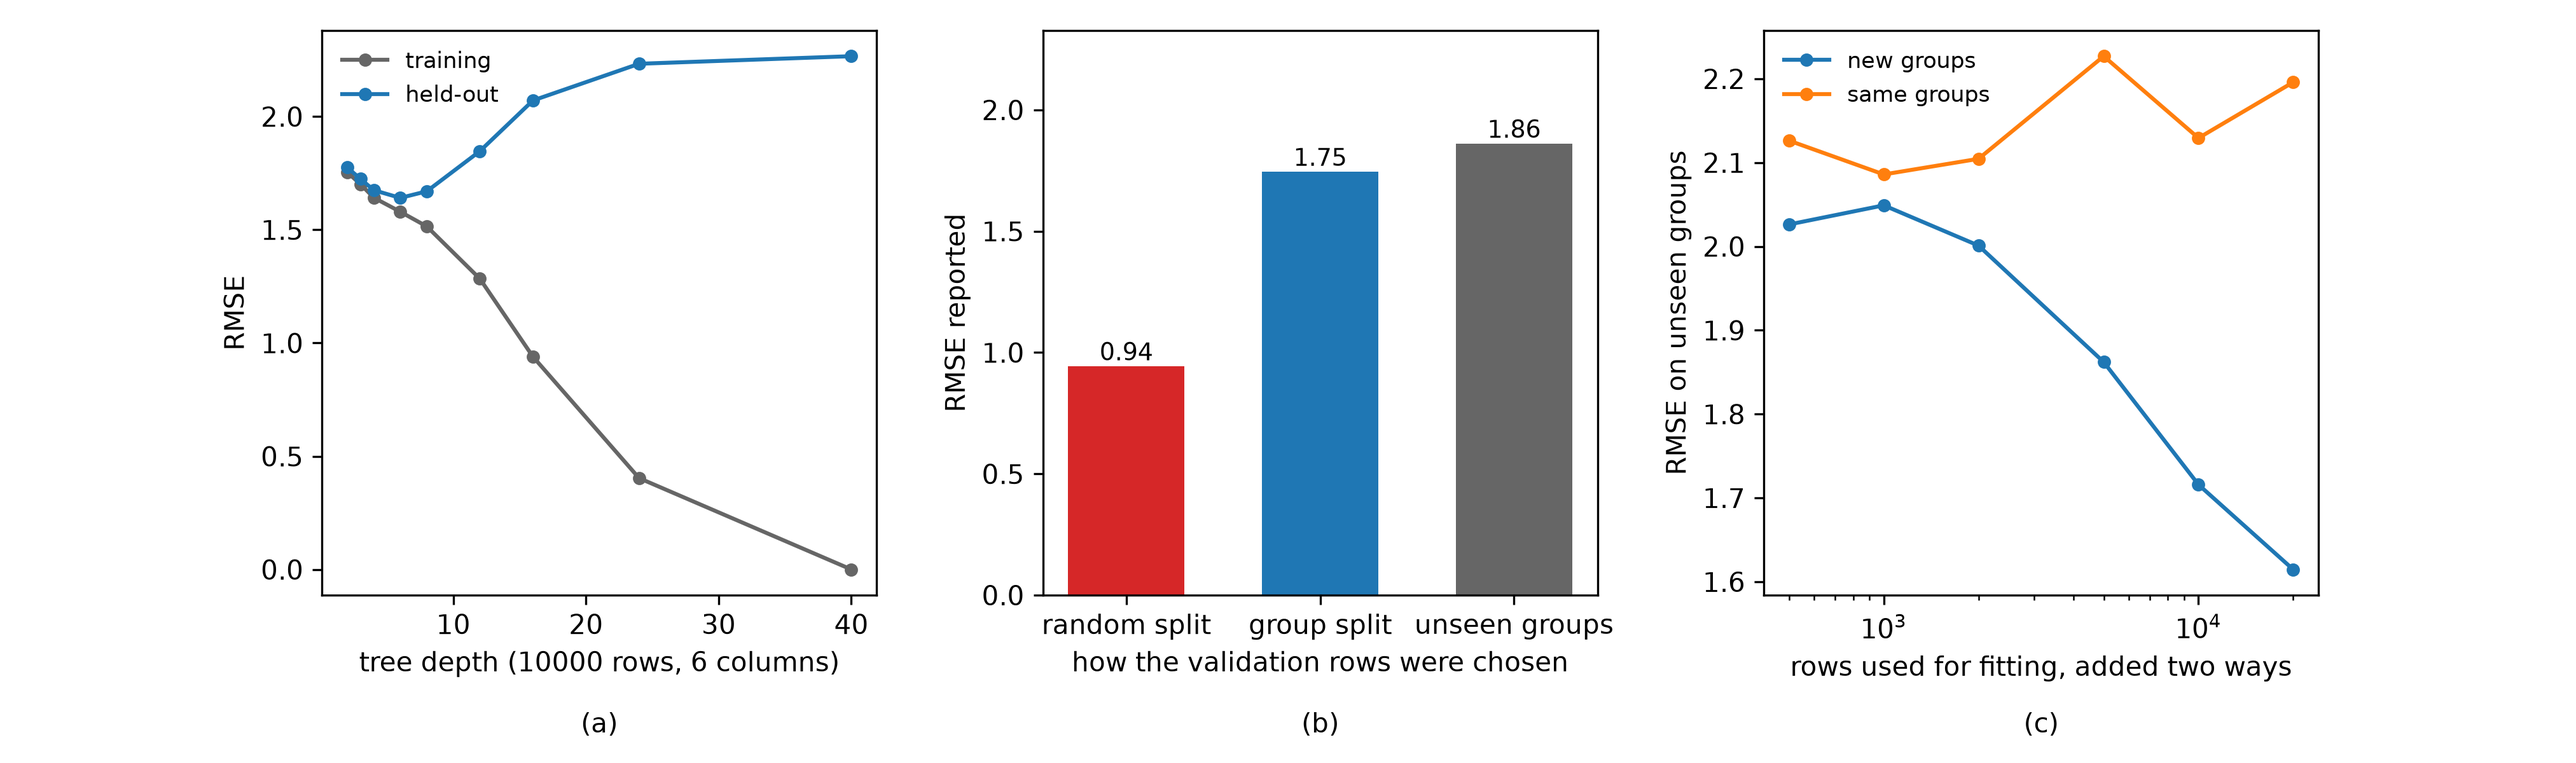
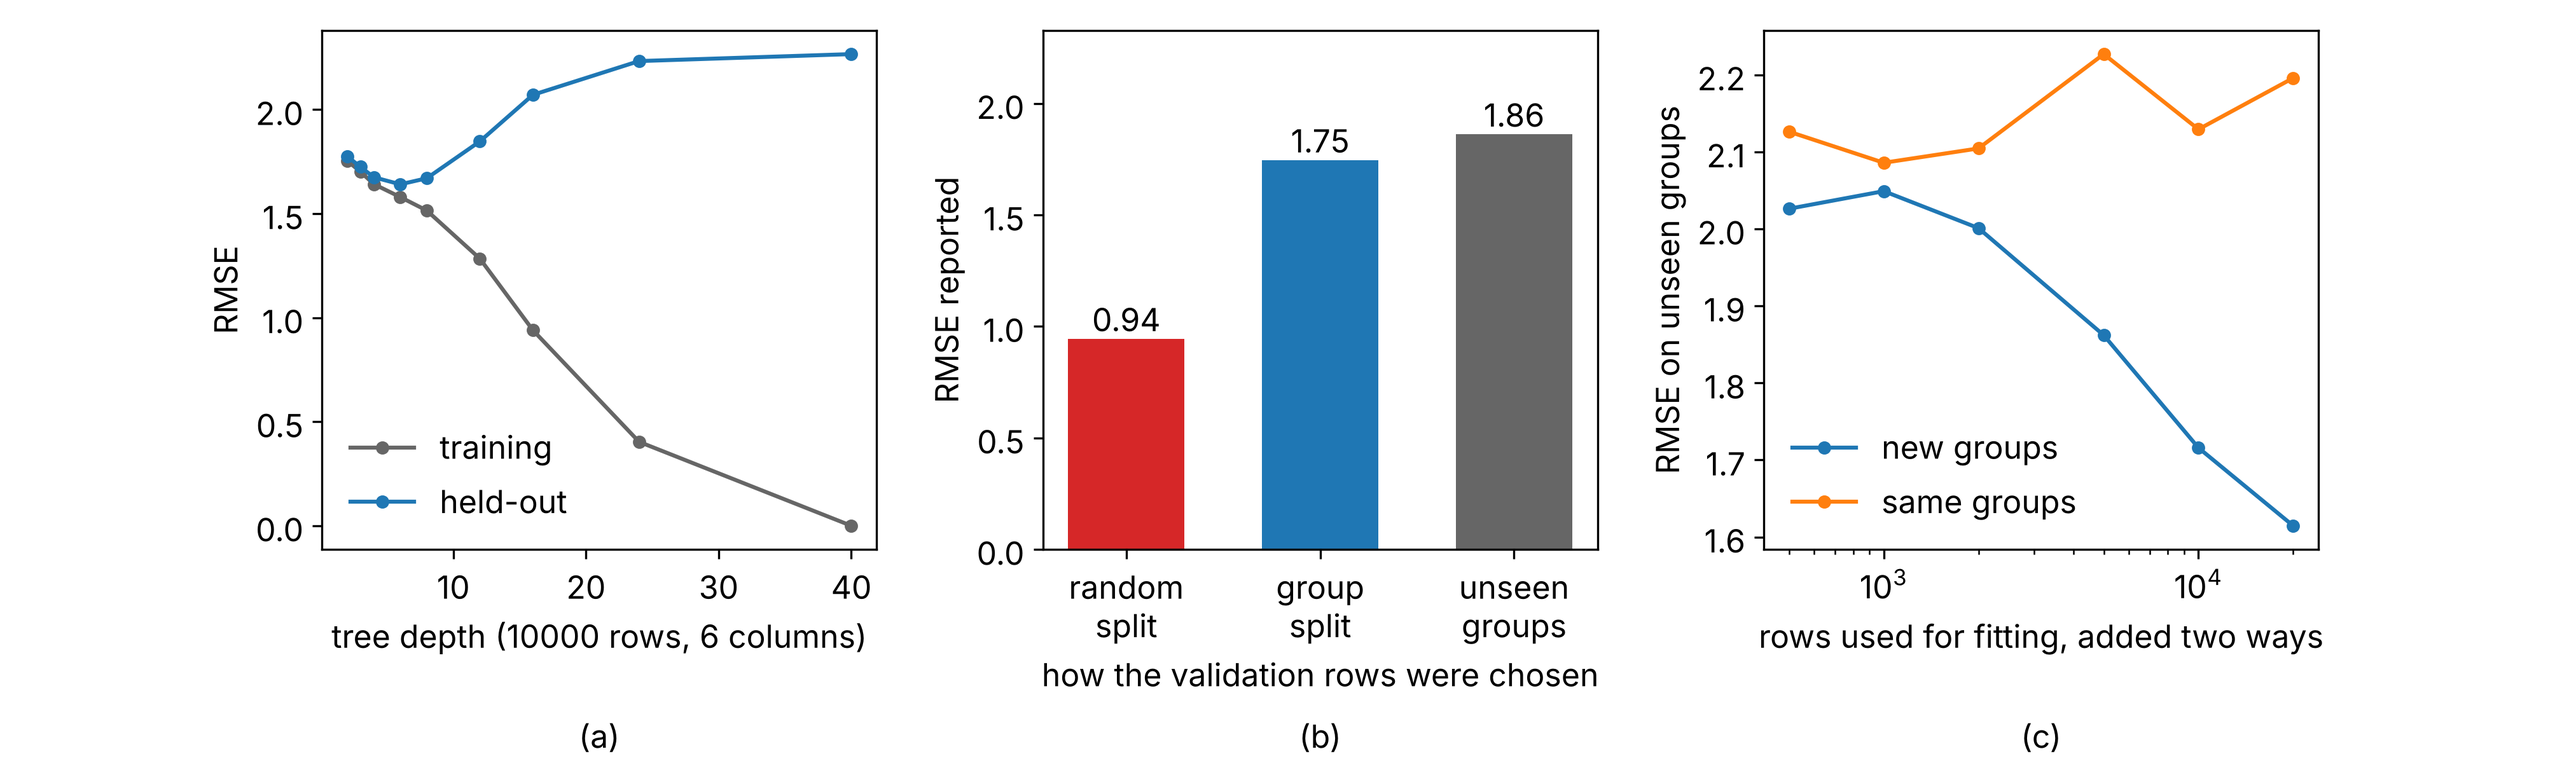
Set the smallest chart font to 12 pt in every overfitting figure
Raise the base font of the training-curve, wide-data and long-data figures to
12 pt and drop the factors that shrank legends and bar annotations below it.
Make room for the larger text: a shared legend above panels (b) and (c) of the
wide-data figure, two-line bar labels and a deeper bottom margin in the
long-data figure, and wider margins in the training-curve figure. The
simulated values are unchanged.

Claude-Session: https://claude.ai/code/session_018jMZFmUUa89N8dZAPYvKA5

diff --git a/Models/Overfitting/long_data_overfitting_fig.py b/Models/Overfitting/long_data_overfitting_fig.py
@@ -6,7 +6,7 @@ whose rows come in groups. Panel (c) adds rows two ways, from new groups and ins
 already present, and follows the error on unseen groups.
 """
 __author__ = 'yRocket'
-__version__ = "0.0.2.2026.9.7"  # Semantic Versioning: Major.Minor.Patch.Date(YYYY.M.D)
+__version__ = "0.0.3+20261101"  # Semantic Versioning: Major.Minor.Patch+YYYYMMDD
 
 import argparse
 import pathlib
@@ -26,7 +26,7 @@ __all__ = ['grouped_draw', 'capacity_curve', 'split_comparison', 'row_curve',
 
 FIGSIZE: tuple = (13.5, 4.0)
 REFERENCE_WIDTH: float = 13.5        # the width BASE_FONT_SIZE was chosen for
-BASE_FONT_SIZE: float = 10.0
+BASE_FONT_SIZE: float = 12.0
 COLORS: list = list(matplotlib.colors.TABLEAU_COLORS.values())
 FULL_DEPTH: int = 40                 # the x position standing for an unlimited tree
 
@@ -129,13 +129,14 @@ def draw_long_data_overfitting(capacity: pd.DataFrame, splits: pd.Series, rows: 
                      label=name)
     axes[0].set_xlabel('tree depth (10000 rows, 6 columns)')
     axes[0].set_ylabel('RMSE')
-    axes[0].legend(frameon=False, fontsize=font_size * 0.85)
+    axes[0].legend(frameon=False, fontsize=font_size)
 
-    axes[1].bar(splits.index, splits.to_numpy(), width=0.6,
+    # Two-line tick labels keep the three names apart at the larger font size.
+    axes[1].bar([name.replace(' ', '\n') for name in splits.index], splits.to_numpy(), width=0.6,
                 color=[COLORS[3], COLORS[0], '0.4'])
     for index, value in enumerate(splits.to_numpy()):
         axes[1].text(index, value, f"{value:.2f}", ha='center', va='bottom',
-                     fontsize=font_size * 0.9)
+                     fontsize=font_size)
     axes[1].set_ylabel('RMSE reported')
     axes[1].set_xlabel('how the validation rows were chosen')
     axes[1].set_ylim(0, splits.max() * 1.25)
@@ -145,12 +146,12 @@ def draw_long_data_overfitting(capacity: pd.DataFrame, splits: pd.Series, rows: 
     axes[2].set_xscale('log')
     axes[2].set_xlabel('rows used for fitting, added two ways')
     axes[2].set_ylabel('RMSE on unseen groups')
-    axes[2].legend(frameon=False, fontsize=font_size * 0.85)
+    axes[2].legend(frameon=False, fontsize=font_size)
 
-    fig.subplots_adjust(bottom=0.22, top=0.96, wspace=0.30)
+    fig.subplots_adjust(bottom=0.28, top=0.96, wspace=0.30)
     for axis, label in zip(axes, ('(a)', '(b)', '(c)')):
         position = axis.get_position()
-        fig.text(position.x0 + position.width / 2, 0.04, label, ha='center', fontsize=font_size)
+        fig.text(position.x0 + position.width / 2, 0.02, label, ha='center', fontsize=font_size)
 
     figure_path = output_folder / 'long-data-overfitting.png'
     fig.savefig(figure_path, dpi=300)

diff --git a/Models/Overfitting/wide_data_overfitting_fig.py b/Models/Overfitting/wide_data_overfitting_fig.py
@@ -5,7 +5,7 @@ Panels (b) and (c) fit four models on a wide design and compare their held-out e
 count grows, first when the signal sits in a few columns and then when it is spread over many.
 """
 __author__ = 'yRocket'
-__version__ = "0.0.2.2026.9.6"  # Semantic Versioning: Major.Minor.Patch.Date(YYYY.M.D)
+__version__ = "0.0.3+20261101"  # Semantic Versioning: Major.Minor.Patch+YYYYMMDD
 
 import argparse
 import pathlib
@@ -24,7 +24,7 @@ __all__ = ['chance_correlation', 'sparse_design', 'factor_design', 'held_out_err
 
 FIGSIZE: tuple = (13.5, 4.0)
 REFERENCE_WIDTH: float = 13.5        # the width BASE_FONT_SIZE was chosen for
-BASE_FONT_SIZE: float = 10.0
+BASE_FONT_SIZE: float = 12.0
 COLORS: list = list(matplotlib.colors.TABLEAU_COLORS.values())
 FITS: tuple = ('least squares', 'ridge', 'lasso', 'random subspace')
 
@@ -149,9 +149,12 @@ def draw_wide_data_overfitting(chance: pd.DataFrame, sparse: pd.DataFrame, facto
 
     for axis in axes:
         axis.set_xscale('log')
-        axis.legend(frameon=False, fontsize=font_size * 0.85)
-
-    fig.subplots_adjust(bottom=0.22, top=0.96, wspace=0.30)
+    axes[0].legend(frameon=False, fontsize=font_size)
+    fig.subplots_adjust(bottom=0.22, top=0.88, wspace=0.30)
+    # Panels (b) and (c) share the four fits and their curves fill the plot area, so one legend sits above both.
+    handles, names = axes[1].get_legend_handles_labels()
+    fig.legend(handles, names, loc='upper center', ncol=len(names), frameon=False, fontsize=font_size,
+               bbox_to_anchor=((axes[1].get_position().x0 + axes[2].get_position().x1) / 2, 1.0))
     for axis, label in zip(axes, ('(a)', '(b)', '(c)')):
         position = axis.get_position()
         fig.text(position.x0 + position.width / 2, 0.04, label, ha='center', fontsize=font_size)

diff --git a/Models/Overfitting/training_curve_fig.py b/Models/Overfitting/training_curve_fig.py
@@ -5,7 +5,7 @@ and then falls. The curves are drawn from closed-form shapes, not from a fitted 
 no ticks because only the shape is meant to be read.
 """
 __author__ = 'yRocket'
-__version__ = "0.2.0+20261101"  # Semantic Versioning: Major.Minor.Patch+YYYYMMDD
+__version__ = "0.2.1+20261101"  # Semantic Versioning: Major.Minor.Patch+YYYYMMDD
 
 import argparse
 import pathlib
@@ -19,10 +19,10 @@ import pandas as pd
 __all__ = ['concept_curves', 'draw_training_curve']
 
 AXES_SIZE: tuple = (4.0, 3.0)        # x and y length of the chart's axis lines, in inches
-MARGINS: dict = {'left': 0.45, 'right': 0.15, 'bottom': 0.50, 'top': 0.40}  # inches around the chart
+MARGINS: dict = {'left': 0.45, 'right': 0.25, 'bottom': 0.60, 'top': 0.50}  # inches around the chart
 DPI: int = 200
 REFERENCE_AXES_WIDTH: float = 4.0    # the chart width BASE_FONT_SIZE was chosen for
-BASE_FONT_SIZE: float = 9.0
+BASE_FONT_SIZE: float = 12.0
 X_AXIS_END: float = 1.23             # iterations where the x axis line ends; the curves end at 1
 COLORS: dict = matplotlib.colors.TABLEAU_COLORS
 TRAINING_COLOR: str = COLORS['tab:blue']
@@ -85,7 +85,7 @@ def draw_training_curve(curve: pd.DataFrame, output_folder: pathlib.Path) -> pat
     axis.plot(t, curve['validation'], color=VALIDATION_COLOR, linewidth=2.5)
     axis.text(0.92, curve['training'].iloc[-1] + 0.05, 'training-set', color=TRAINING_COLOR,
               fontsize=font_size, ha='center', va='bottom')
-    axis.text(1.25, VALIDATION_PEAK - 0.06, 'validation-set', color=VALIDATION_COLOR,
+    axis.text(1.25, VALIDATION_PEAK + 0.01, 'validation-set', color=VALIDATION_COLOR,
               fontsize=font_size, ha='right', va='center')
 
     figure_path = output_folder / 'training-curve.png'
